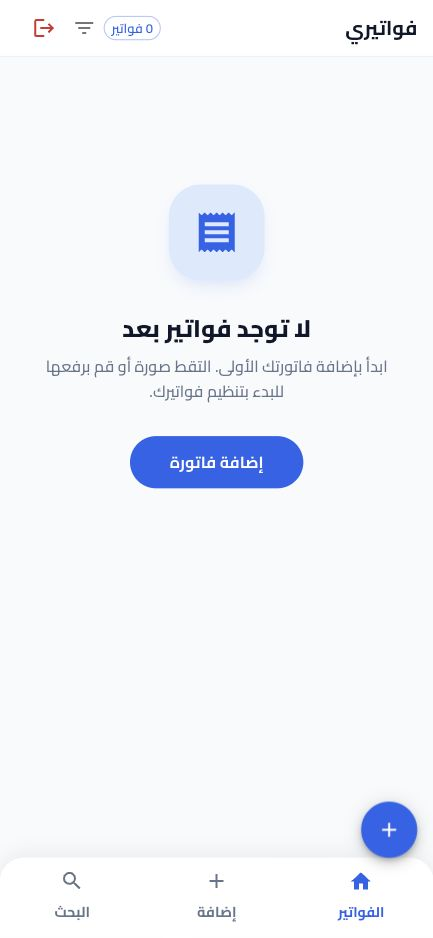
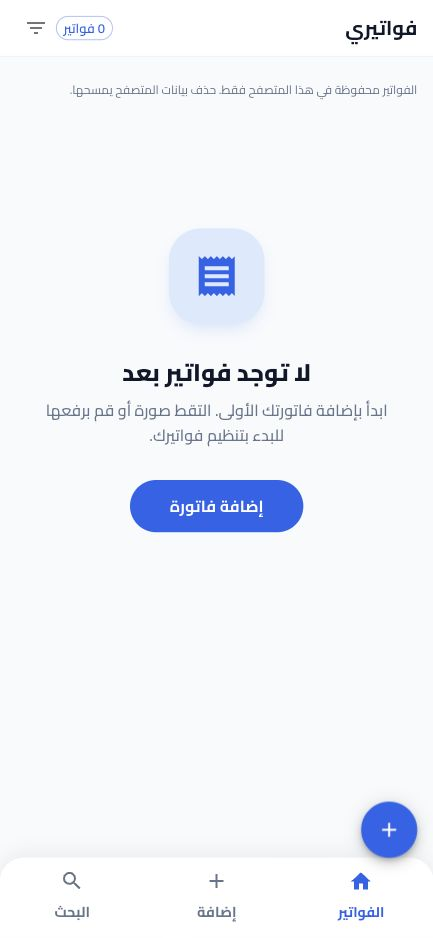
Link the public local-only Fawtara edition and refresh mobile previews

diff --git a/README.md b/README.md
@@ -48,6 +48,7 @@ I’m a network engineer and developer based in Libya. I work on development, sy
 <a href="projects/fawtara.md"><img src="assets/fawtara/phone-home.jpg" height="250" alt="Fawtara invoice archive on a phone-sized screen" /> <img src="assets/fawtara/phone-add-invoice.jpg" height="250" alt="Fawtara invoice capture form on a phone-sized screen" /></a>
 <p>Capture an invoice image and organize its details.</p>
 <a href="projects/fawtara.md">Explore Fawtara →</a>
+<br /><a href="https://github.com/mohamedkbay/fawtara-public">Public source →</a>
 </td>
 </tr>
 </table>
@@ -63,7 +64,7 @@ UpDent uses published promotional images. Glory, Nabda and Fawtara use local dev
 | **فكّرني · Fakkerni** | Capture an Arabic voice reminder, review it and schedule an alert. | Java · SwiftUI | [Preview](projects/fakkerni.md) · [Source & downloads](https://github.com/mohamedkbay/fakkerni) |
 | **مساجدنا · Masajiduna** | Prayer times, nearby mosques, daily adhkar and Quran radio. | Flutter · Dart · React | [Overview](projects/masajiduna.md) · [Website](https://masajiduna.ly) |
 | **نبضة · Nabda** | Connect an Android phone to a messaging controller and API. | TypeScript · Java · PostgreSQL · Redis | [Overview](projects/nabda.md) |
-| **فوترة · Fawtara** | Capture, organize and find invoice images from a phone. | React · TypeScript · MUI | [Overview](projects/fawtara.md) |
+| **فوترة · Fawtara** | Capture, organize and find invoice images from a phone. | React · TypeScript · MUI | [Overview](projects/fawtara.md) · [Public source](https://github.com/mohamedkbay/fawtara-public) |
 
 ## A closer look
 

diff --git a/PROJECTS.md b/PROJECTS.md
@@ -15,7 +15,7 @@ Web and mobile products, business systems, websites and interface prototypes fro
 | **Fakkerni · فكّرني** | Arabic voice reminders, review before saving and local alerts on Android and iOS. | [Source & downloads](https://github.com/mohamedkbay/fakkerni) |
 | **Masajiduna · مساجدنا** | Flutter prayer companion, mosque discovery, adhkar and Quran radio, with a companion website. | [Overview](projects/masajiduna.md) · [Website](https://masajiduna.ly) |
 | **Nabda · نبضة** | Android messaging agent, Windows controller and self-hosted messaging API. | [Overview](projects/nabda.md) |
-| **Fawtara · فوترة** | Mobile-first invoice image capture, organization and retrieval. | [Overview](projects/fawtara.md) |
+| **Fawtara · فوترة** | Mobile-first invoice image capture, organization and retrieval. A browser-only edition is available publicly. | [Overview](projects/fawtara.md) · [Public source](https://github.com/mohamedkbay/fawtara-public) |
 | **Live Transcribe · التفريغ اللحظي** | A writer screen and a live audience screen, synchronized through WebSockets, with local text and HTML export. | Private source |
 | **Fermo mobile application** | Flutter application interfaces for customer, driver and supplier roles. | Private development project |
 

diff --git a/assets/README.md b/assets/README.md
@@ -9,6 +9,6 @@ These images support the public portfolio. Private application source code and o
 | `fakkerni/` | Existing native iOS Simulator captures from the [public Fakkerni documentation](https://github.com/mohamedkbay/fakkerni). The editor is empty. |
 | `masajiduna/` | Existing app development previews. The mosque map shows a manually selected preview location. |
 | `nabda/` | Browser capture of the local product website, taken on 17 October 2026. The message route is a built-in simulation, including a masked example phone number. |
-| `fawtara/` | Phone-layout browser captures of a local preview, taken on 17 October 2026. The invoice archive and form are empty. |
+| `fawtara/` | Phone-layout captures of the public browser-only edition running locally, taken on 17 October 2026. The invoice archive and form are empty. |
 
 Images show their respective captured or published versions. A preview does not imply that every backend integration is configured in a hosted deployment. Rights in product branding and third-party material remain with their respective owners.

diff --git a/projects/fawtara.md b/projects/fawtara.md
@@ -2,7 +2,7 @@
 
 **A mobile-first workspace for organizing invoice images.**
 
-[Back to selected work](../README.md)
+[Public source](https://github.com/mohamedkbay/fawtara-public) · [Back to selected work](../README.md)
 
 ## Interface previews
 
@@ -34,4 +34,4 @@ React · TypeScript · Material UI · Zustand · Vite
 
 ## Availability
 
-The hosted application uses an access-code screen. This overview does not provide access to private invoices or accounts. Source code remains private.
+The [public browser-only edition](https://github.com/mohamedkbay/fawtara-public) is available as source code. It stores invoice images and details in the current browser's local storage, with no database or remote storage integration to configure. See its README for running and building the application.
